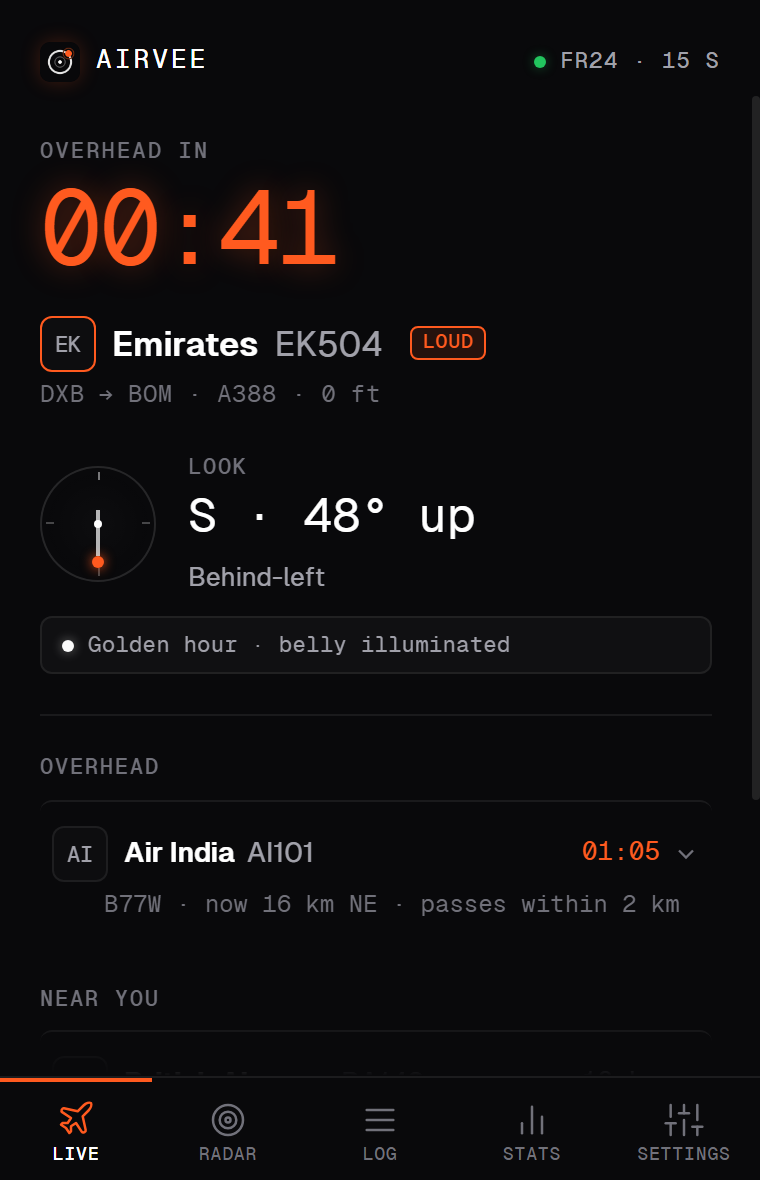
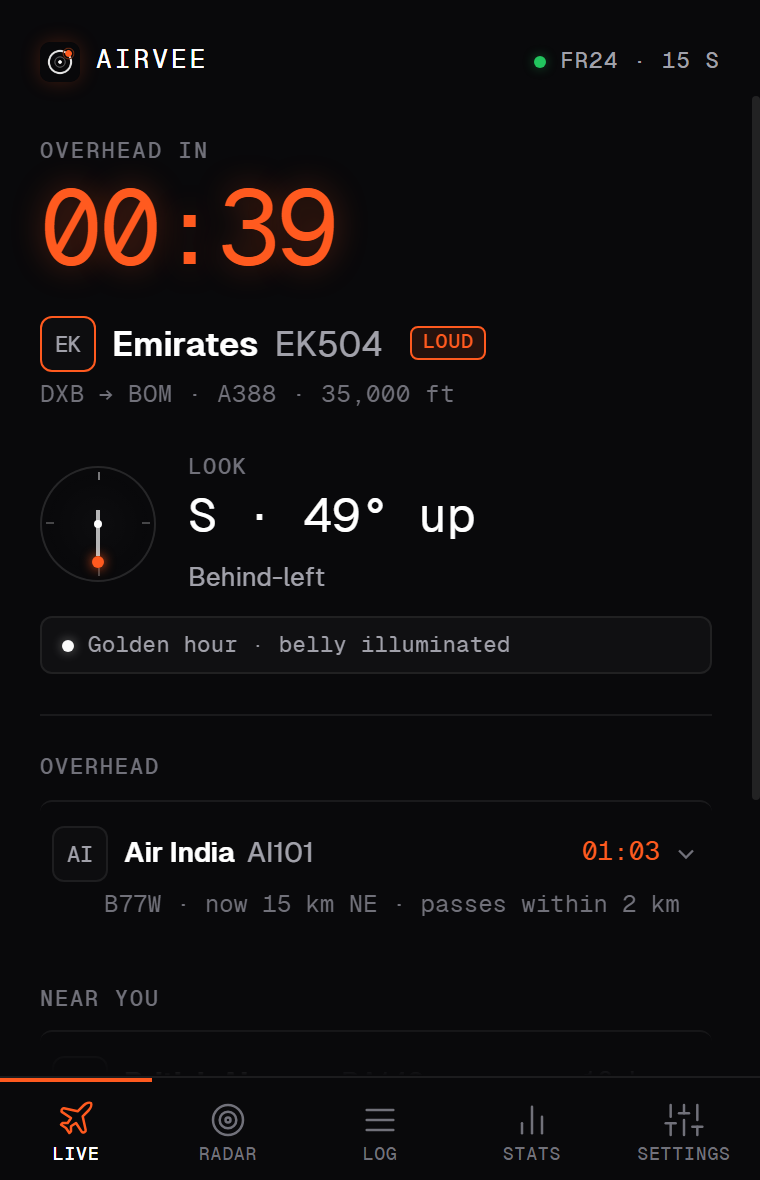
Update README

diff --git a/providers/mock.js b/providers/mock.js
@@ -65,9 +65,15 @@ export async function fetchMockFlightsNear(lat, lon, radiusKm = 15) {
       lat: posA.lat,
       lon: posA.lon,
       altitudeFt: 37000,
+      altitude: 37000,
       groundSpeedKt: 480,
+      speed: 480,
       trackDeg: 0,
+      heading: 0,
       verticalRateFpm: 0,
+      verticalSpeed: 0,
+      latitude: posA.lat,
+      longitude: posA.lon,
       origin: 'BOM',
       destination: 'JFK',
       timestamp: Math.floor(now / 1000),
@@ -86,9 +92,15 @@ export async function fetchMockFlightsNear(lat, lon, radiusKm = 15) {
       lat: posB.lat,
       lon: posB.lon,
       altitudeFt: 33000,
+      altitude: 33000,
       groundSpeedKt: 450,
+      speed: 450,
       trackDeg: 0,
+      heading: 0,
       verticalRateFpm: 0,
+      verticalSpeed: 0,
+      latitude: posB.lat,
+      longitude: posB.lon,
       origin: 'DXB',
       destination: 'BOM',
       timestamp: Math.floor(now / 1000),
@@ -107,9 +119,15 @@ export async function fetchMockFlightsNear(lat, lon, radiusKm = 15) {
       lat: posC.lat,
       lon: posC.lon,
       altitudeFt: 35000,
+      altitude: 35000,
       groundSpeedKt: 460,
+      speed: 460,
       trackDeg: 45,
+      heading: 45,
       verticalRateFpm: 0,
+      verticalSpeed: 0,
+      latitude: posC.lat,
+      longitude: posC.lon,
       origin: 'LHR',
       destination: 'DEL',
       timestamp: Math.floor(now / 1000),

diff --git a/tests/mock.test.js b/tests/mock.test.js
@@ -49,6 +49,9 @@ console.log('\n--- 3. Case B: Passing 20 km East of Observer (UAE504) ---');
 const fB = flights.find(f => f.callsign === 'UAE504');
 assert(fB !== undefined, 'Flight UAE504 exists');
 assert(fB.altitudeFt === 33000, `Altitude is 33,000 ft (got ${fB.altitudeFt})`);
+assert(fB.altitude === 33000, `Flight UAE504 has realistic altitude alias matching altitudeFt (got ${fB.altitude})`);
+assert(fB.altitude > 0, 'Flight UAE504 altitude is positive realistic flight level, never 0 ft');
+assert(flights.every(f => f.altitude > 0 && f.altitude === f.altitudeFt), 'All mock flights provide positive realistic altitude property (never 0 ft)');
 
 const cpaB = calculateCPA(
   fB.lat, fB.lon, fB.altitudeFt, fB.groundSpeedKt, fB.trackDeg, fB.verticalRateFpm,

diff --git a/README.md b/README.md
@@ -17,6 +17,8 @@ Airvee is a Chrome extension that watches the sky around a location you choose, 
 
 ### Screenshots
 
+Screenshots use simulated flights from the built-in mock provider.
+
 | Live Tracking | Radar Scope | Alert Rules |
 | :---: | :---: | :---: |
 | <img src="docs/images/live.png" width="220" alt="Live overhead flight tracking" /> | <img src="docs/images/radar.png" width="220" alt="Radar scope with heading vectors" /> | <img src="docs/images/alerts.png" width="220" alt="Configurable alert rules" /> |
@@ -29,13 +31,13 @@ Airvee is a Chrome extension that watches the sky around a location you choose, 
 
 I live in Central India, which sits under busy long-haul routes. A lot of Ethiopian, Qatar Airways and Emirates flights pass overhead, and I kept missing them. Flight-tracking apps show where a plane is, but I wanted something that taps me on the shoulder two minutes before it arrives and tells me which way to look. Airvee is that: a small extension that predicts the closest point of approach to my exact spot and turns it into a direction and an angle.
 
-I built it with AI coding tools and then tested, reviewed and reshaped it myself. The geometry is documented in [docs/geometry.md](docs/geometry.md) so you can check the maths rather than take my word for it.
+The geometry is documented in [docs/geometry.md](docs/geometry.md) so you can check the maths rather than take my word for it.
 
 ## What it does
 - **Overhead vs. near-you separation.** From each aircraft's position, speed and heading, Airvee calculates its predicted closest point of approach (CPA). A flight is classified as **overhead** only when it is strictly inbound, passes within your overhead threshold (default 5 km), and achieves an elevation angle above the horizon (default ≥15°). Only overhead flights trigger notifications, chimes, live countdowns, and accent styling. All other aircraft inside your detection radius appear under **Near you** with neutral styling and status (e.g. "Closest 14 km east in 2:10" or "Moving away") without alerting.
 - **Look direction.** The compass direction and elevation angle to look at, relative to the direction you face.
 - **Radar view.** A canvas radar centred on you with range rings, plane trails and your facing direction.
-- **Watchlist.** Alert rules by aircraft type, airline, registration, callsign prefix, or cargo and passenger flights, plus a "rare for me" rule based on your own log. Each rule can use its own alert style.
+- **Alerts.** Choose what you are alerted about: every overhead flight, or only the flights you pick (by airline, aircraft type, category such as cargo or wide-body, direction of travel, registration or callsign). Each rule can alert normally, alert loudly, only log, or ignore.
 - **Log and statistics.** Every overhead pass is stored on your device. Includes a collection of airlines, aircraft types and registrations you have seen, an hour-by-weekday heatmap, and "likely today" suggestions from your own history.
 - **Visibility hint.** Simple rules based on sun height and cloud cover to suggest looking conditions, for example "Night · look for strobe lights". Not a physical simulation.
 
